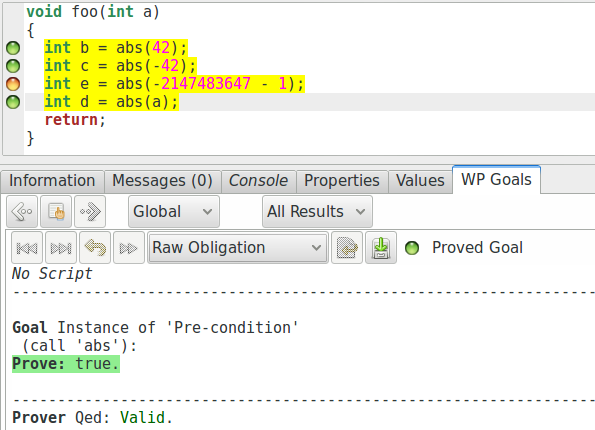
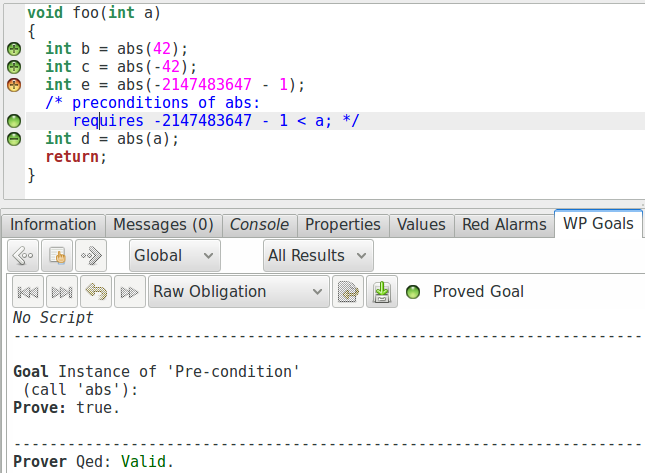
Updated screenshots + a few quickfixes

diff --git a/english/function-contract/contract.tex b/english/function-contract/contract.tex
@@ -314,7 +314,9 @@ In the bottom panel, we can select the ``WP Goals'' tab, it shows the
 list of proof obligations, and for each prover the result is symbolized
 by a logo that indicates if the proof has been tried and if it
 succeeded, failed or encountered a timeout (here we can see a try with
-Z3 where we had a timeout on the proof of absence of RTE).
+Z3 where we had a timeout on the proof of absence of RTE). Note that it
+may require to select ``All Results'' in the squared field to see all
+proof obligations.
 
 
 \image{1-abs-5.png}[Proof obligations panel of WP for \CodeInline{abs}]
@@ -335,8 +337,9 @@ through WP.
 
 In these provers, the first element is Qed. It is not really a prover.
 In fact, if we double-click on the property ``absence of underflow''
-(highlight in blue in the last screenshot), we can see corresponding
-proof obligation:
+(highlighted in blue in the last screenshot), we can see corresponding
+proof obligation (if it is not the case, make sure that the value ``Raw
+obligation'' is selected in the blue squared field):
 
 
 
@@ -382,7 +385,7 @@ hard to read.
 
 
 
-If we go back to our view of proof obligations (see the squared button
+If we go back to our view of proof obligations (see the red squared button
 in the last screenshot), we can see that our hypotheses are not enough
 to determine that the property ``absence of underflow'' is true (which
 is indeed currently impossible), so we need to add some hypotheses to
@@ -482,6 +485,13 @@ void foo(int a){
 
 
 \image{2-foo-1.png}[Precondition checking when calling \CodeInline{abs}]
+
+Note that we can clic on the bullet next to the function call to see the
+list of preconditions and check which ones are not validated. Here, there is
+only one precondition, but when there are multiple ones it is useful to check
+what is exactly the problem.
+
+\image{2-foo-1-bis.png}[Unfolded precondition checking when calling \CodeInline{abs}]
 
 
 We can modify this example by revering the last two instructions. If we

diff --git a/english/program-proof-and-our-tool/program-proof.tex b/english/program-proof-and-our-tool/program-proof.tex
@@ -144,7 +144,7 @@ a chronometer could be the following:
 
 
 
-\image{model-fr.png}[A very abstract model of a chronometer]
+\image{model-en.svg}[A very abstract model of a chronometer]
 
 
 We have a model of the behavior of our chronometer with the different

diff --git a/code/statements/loops/infinite.c b/code/statements/loops/infinite.c
@@ -1,4 +1,4 @@
 void foo(){
   while(1){}
-  //assert \false;
+  //@ assert \false;
 }
